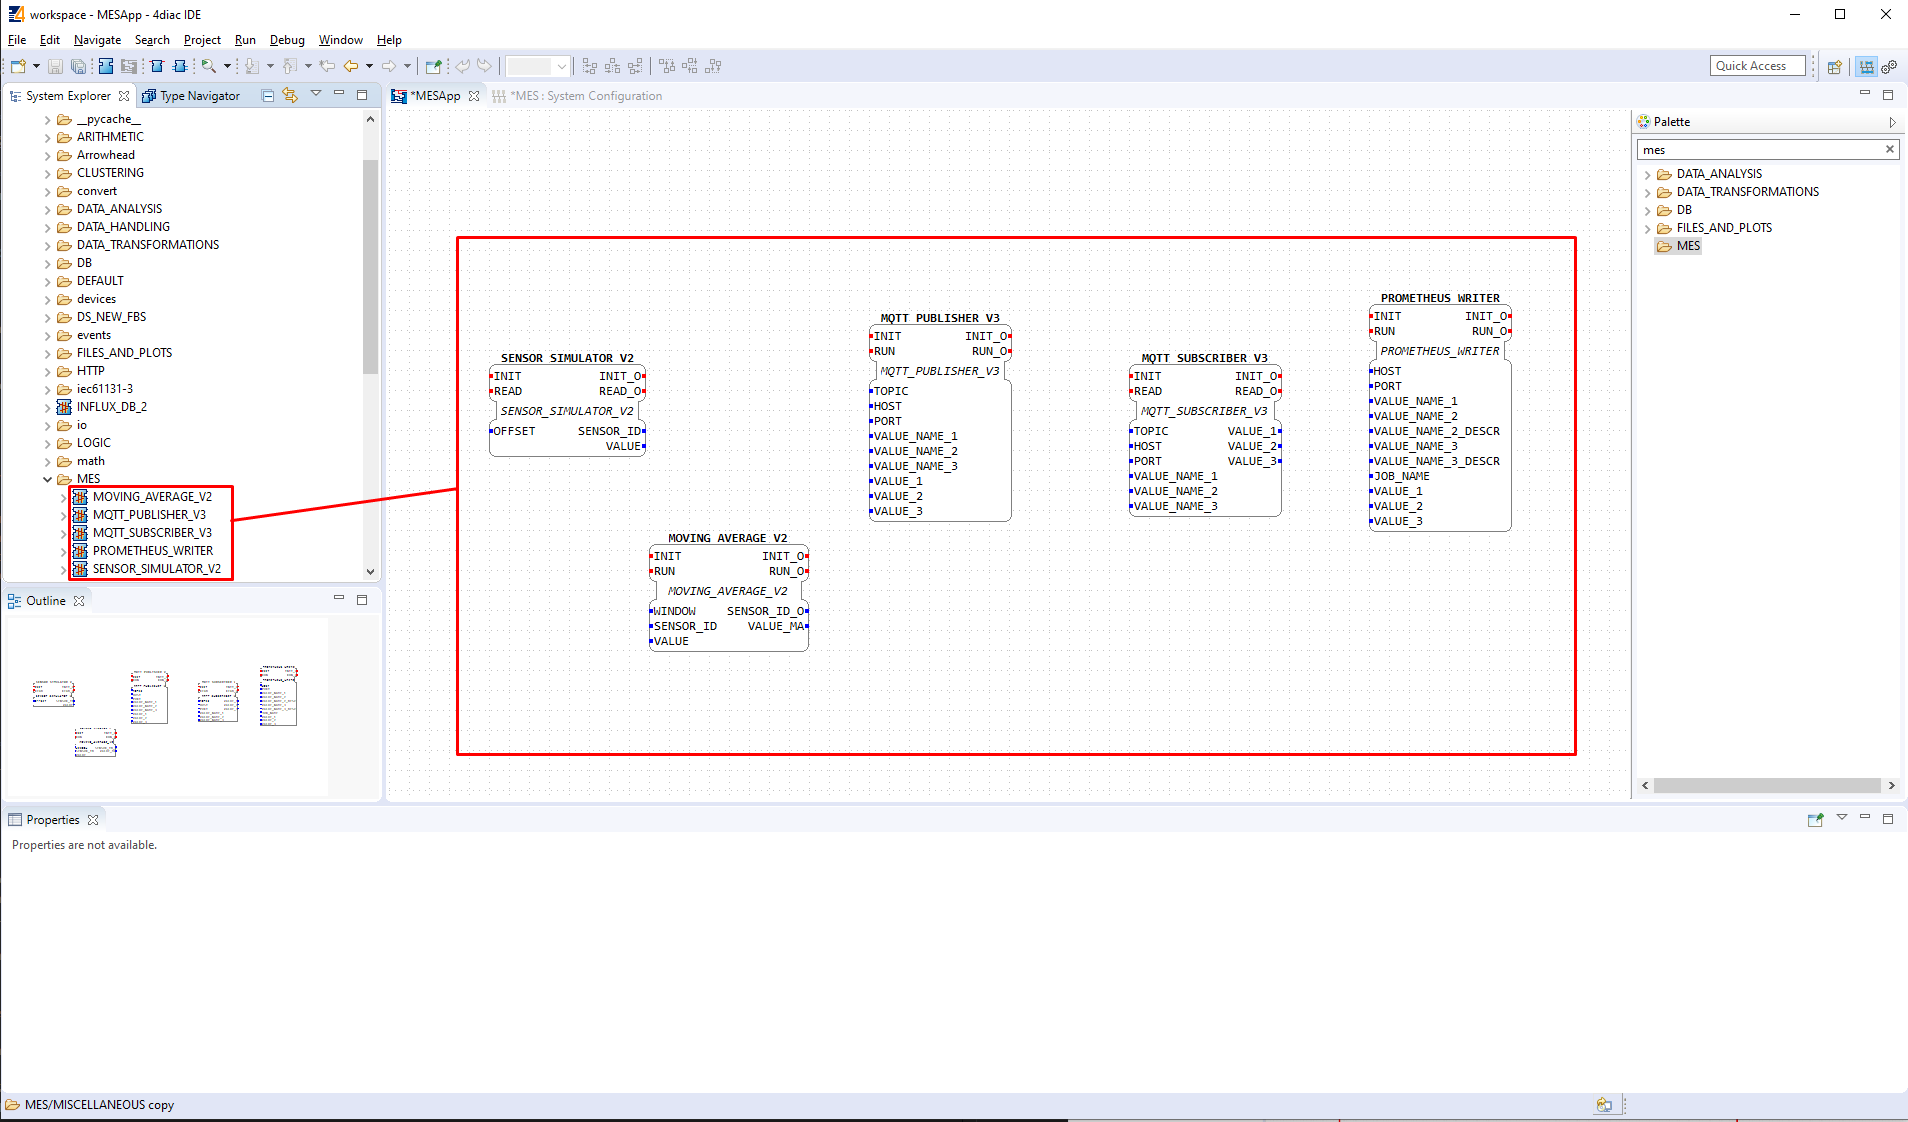
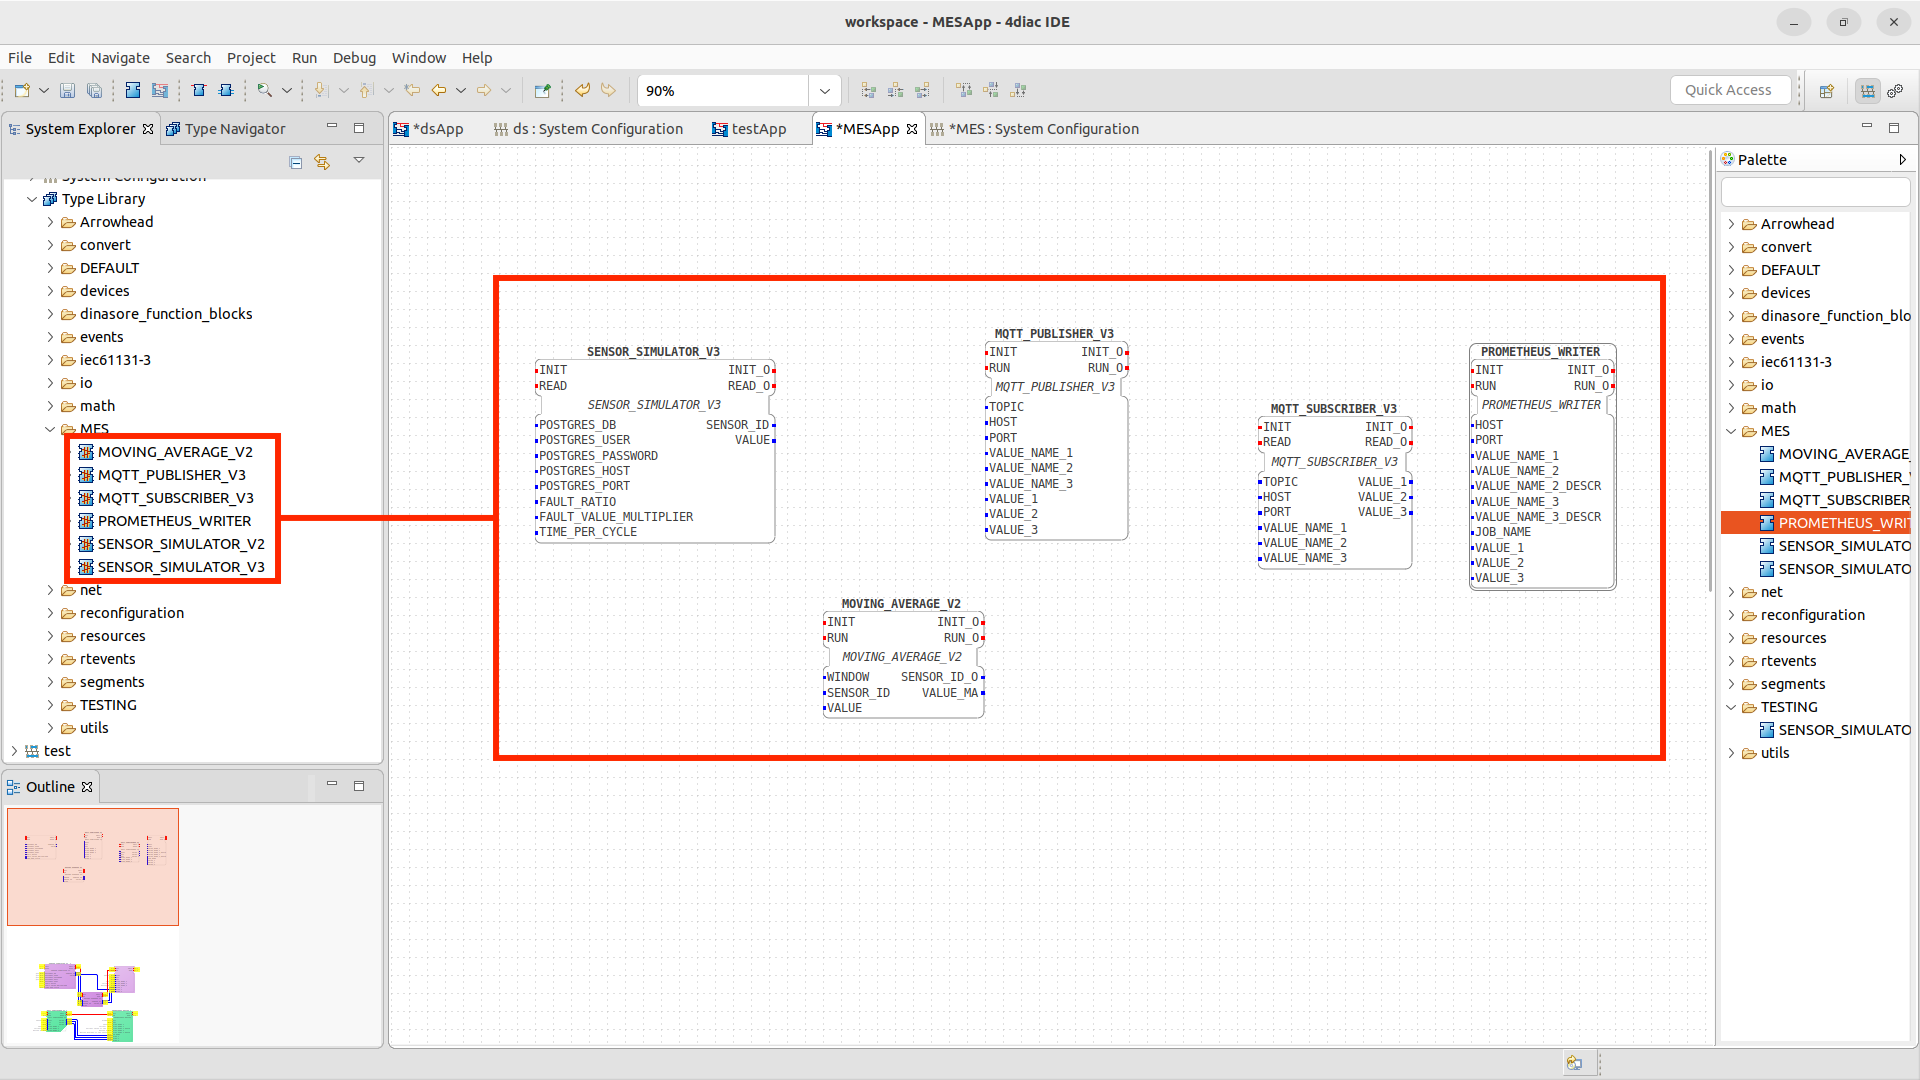
doc: Changed documentation, introducing the new sensor simulator

Changed region(s): [[0.0, 0.0, 1.0, 1.0], [0.2474, 0.1833, 0.8349, 0.2139]]

diff --git a/src/dinasore/README.md b/src/dinasore/README.md
@@ -72,7 +72,7 @@
 
     5. On the System Explorer, open **MESApp**
     6. From the palette on the right side, drag the following function blocks:
-        - **SENSOR_SIMULATOR_V2**
+        - **SENSOR_SIMULATOR_V3**
         - **MOVING_AVERAGE_V2**
         - **MQTT_PUBLISHER_V3**
         - **MQTT_SUBSCRIBER_V3**
@@ -80,24 +80,33 @@
 
         ![image](./images/Screenshot_2.png)
     7. Now, proceed to link the function blocks and fill the parameters with:
-        - **SENSOR_SIMULATOR_V2**: OFFSET = 0. You can twist this value to emulate, for example, a sensor that can overheat (Offset = 10) or a sensor that is working above the desired temperature (Offset = -10).
-        - **MOVING_AVERAGE_V2**: WINDOW = 5. This value is the number of samples that the moving average will use to calculate the average value. You can change this value to see how the moving average changes.
+        - **SENSOR_SIMULATOR_V3**: 
+            - POSTGRES_DB = "postgres". This is the name of the database.
+            - POSTGRES_USER = "postgres". This is the username of postgres
+            - POSTGRES_PASSWORD = "postgres". This is the password to access postgres
+            - POSTGRES_HOST = "postgres". This is the IP address of the postgres on your machine.
+            - POSTGRES_PORT = 5432. This is the port of the postgres on your machine.
+            - FAULT_RATIO = 0.0. This value is kept between 0.0 and 1.0. It represents the chance of a failure for each cycle.
+            - FAULT_VALUE_MULTIPLIER = 1.0. This value must be bigger than 0.
+            - TIME_PER_CYCLE = 200. This value corresponds to the time in seconds of each cycle.
+
+        - **MOVING_AVERAGE_V2**: WINDOW = 1. This value is the number of samples that the moving average will use to calculate the average value. You can change this value to see how the moving average changes.
         - **MQTT_PUBLISHER_V3**: 
             - TOPIC = "sensor_data". This is the topic that the publisher will use to publish sensor data to.
-            - HOST = "localhost". This is the IP address of the MQTT Broker on your machine.
+            - HOST = "mqtt5". This is the IP address of the MQTT Broker on your machine.
             - PORT = 1883. This is the port of the MQTT Broker on your machine.
             - VALUE_NAME_1 = "sensor_id". This is the id of the sensor.
             - VALUE_NAME_2 = "current_value". This is the current value of the sensor.
             - VALUE_NAME_3 = "moving_average". This is the moving average of the sensor.
         - **MQTT_SUBSCRIBER_V3**:
             - TOPIC = "sensor_data". This is the topic that the subscriber will use to subscribe to.
-            - HOST = "localhost". This is the IP address of the MQTT Broker on your machine.
+            - HOST = "mqtt5". This is the IP address of the MQTT Broker on your machine.
             - PORT = 1883. This is the port of the MQTT Broker on your machine.
             - VALUE_NAME_1 = "sensor_id". This is the id of the sensor.
             - VALUE_NAME_2 = "current_value". This is the current value of the sensor.
             - VALUE_NAME_3 = "moving_average". This is the moving average of the sensor.
         - **PROMETHEUS_WRITER**:
-            - HOST = "localhost". This is the IP address of the Prometheus Gateway running on docker.
+            - HOST = "pushgateway". This is the IP address of the Prometheus Gateway running on docker.
             - PORT = 9091. This is the port of the Prometheus Gateway running on docker.
             - VALUE_NAME_1 = "sensor_id". This is the id of the sensor.
             - VALUE_NAME_2 = "current_value". This is the current value of the sensor.
@@ -111,7 +120,7 @@
         NOTE: Make sure to link the function blocks as shown in the image above. This step is important to ensure that the function blocks are linked in the correct order and that it follows the flow of the data.
 
     8. Link the function blocks to the corresponding FORTE_PC:
-        - **SENSOR_SIMULATOR_V2**, **MOVING_AVERAGE_V2**, **MQTT_PUBLISHER_V3**: Right click on the function block -> Select "Map to .." -> Select "FORTE_PC" -> Select "EMB_RES"
+        - **SENSOR_SIMULATOR_V3**, **MOVING_AVERAGE_V2**, **MQTT_PUBLISHER_V3**: Right click on the function block -> Select "Map to .." -> Select "FORTE_PC" -> Select "EMB_RES"
         - **MQTT_SUBSCRIBER_V3**, **PROMETHEUS_WRITER**: Right click on the function block -> Select "Map to .." -> Select "FORTE_PC_1" -> Select "EMB_RES"
 
         ![image](./images/Screenshot_4.png)

diff --git a/README.md b/README.md
@@ -121,7 +121,7 @@ python core/main.py -p 61500 -u 4841
       ![image](./docs/images/Screenshot_3.png)
 
   8. Link the function blocks to the corresponding FORTE_PC:
-      - **SENSOR_SIMULATOR_V2**, **MOVING_AVERAGE_V2**, **MQTT_PUBLISHER_V3**: Right click on the function block -> Select "Map to .." -> Select "FORTE_PC" -> Select "EMB_RES"
+      - **SENSOR_SIMULATOR_V3**, **MOVING_AVERAGE_V2**, **MQTT_PUBLISHER_V3**: Right click on the function block -> Select "Map to .." -> Select "FORTE_PC" -> Select "EMB_RES"
       - **MQTT_SUBSCRIBER_V3**, **PROMETHEUS_WRITER**: Right click on the function block -> Select "Map to .." -> Select "FORTE_PC_1" -> Select "EMB_RES"
 
       ![image](./docs/images/Screenshot_4.png)
